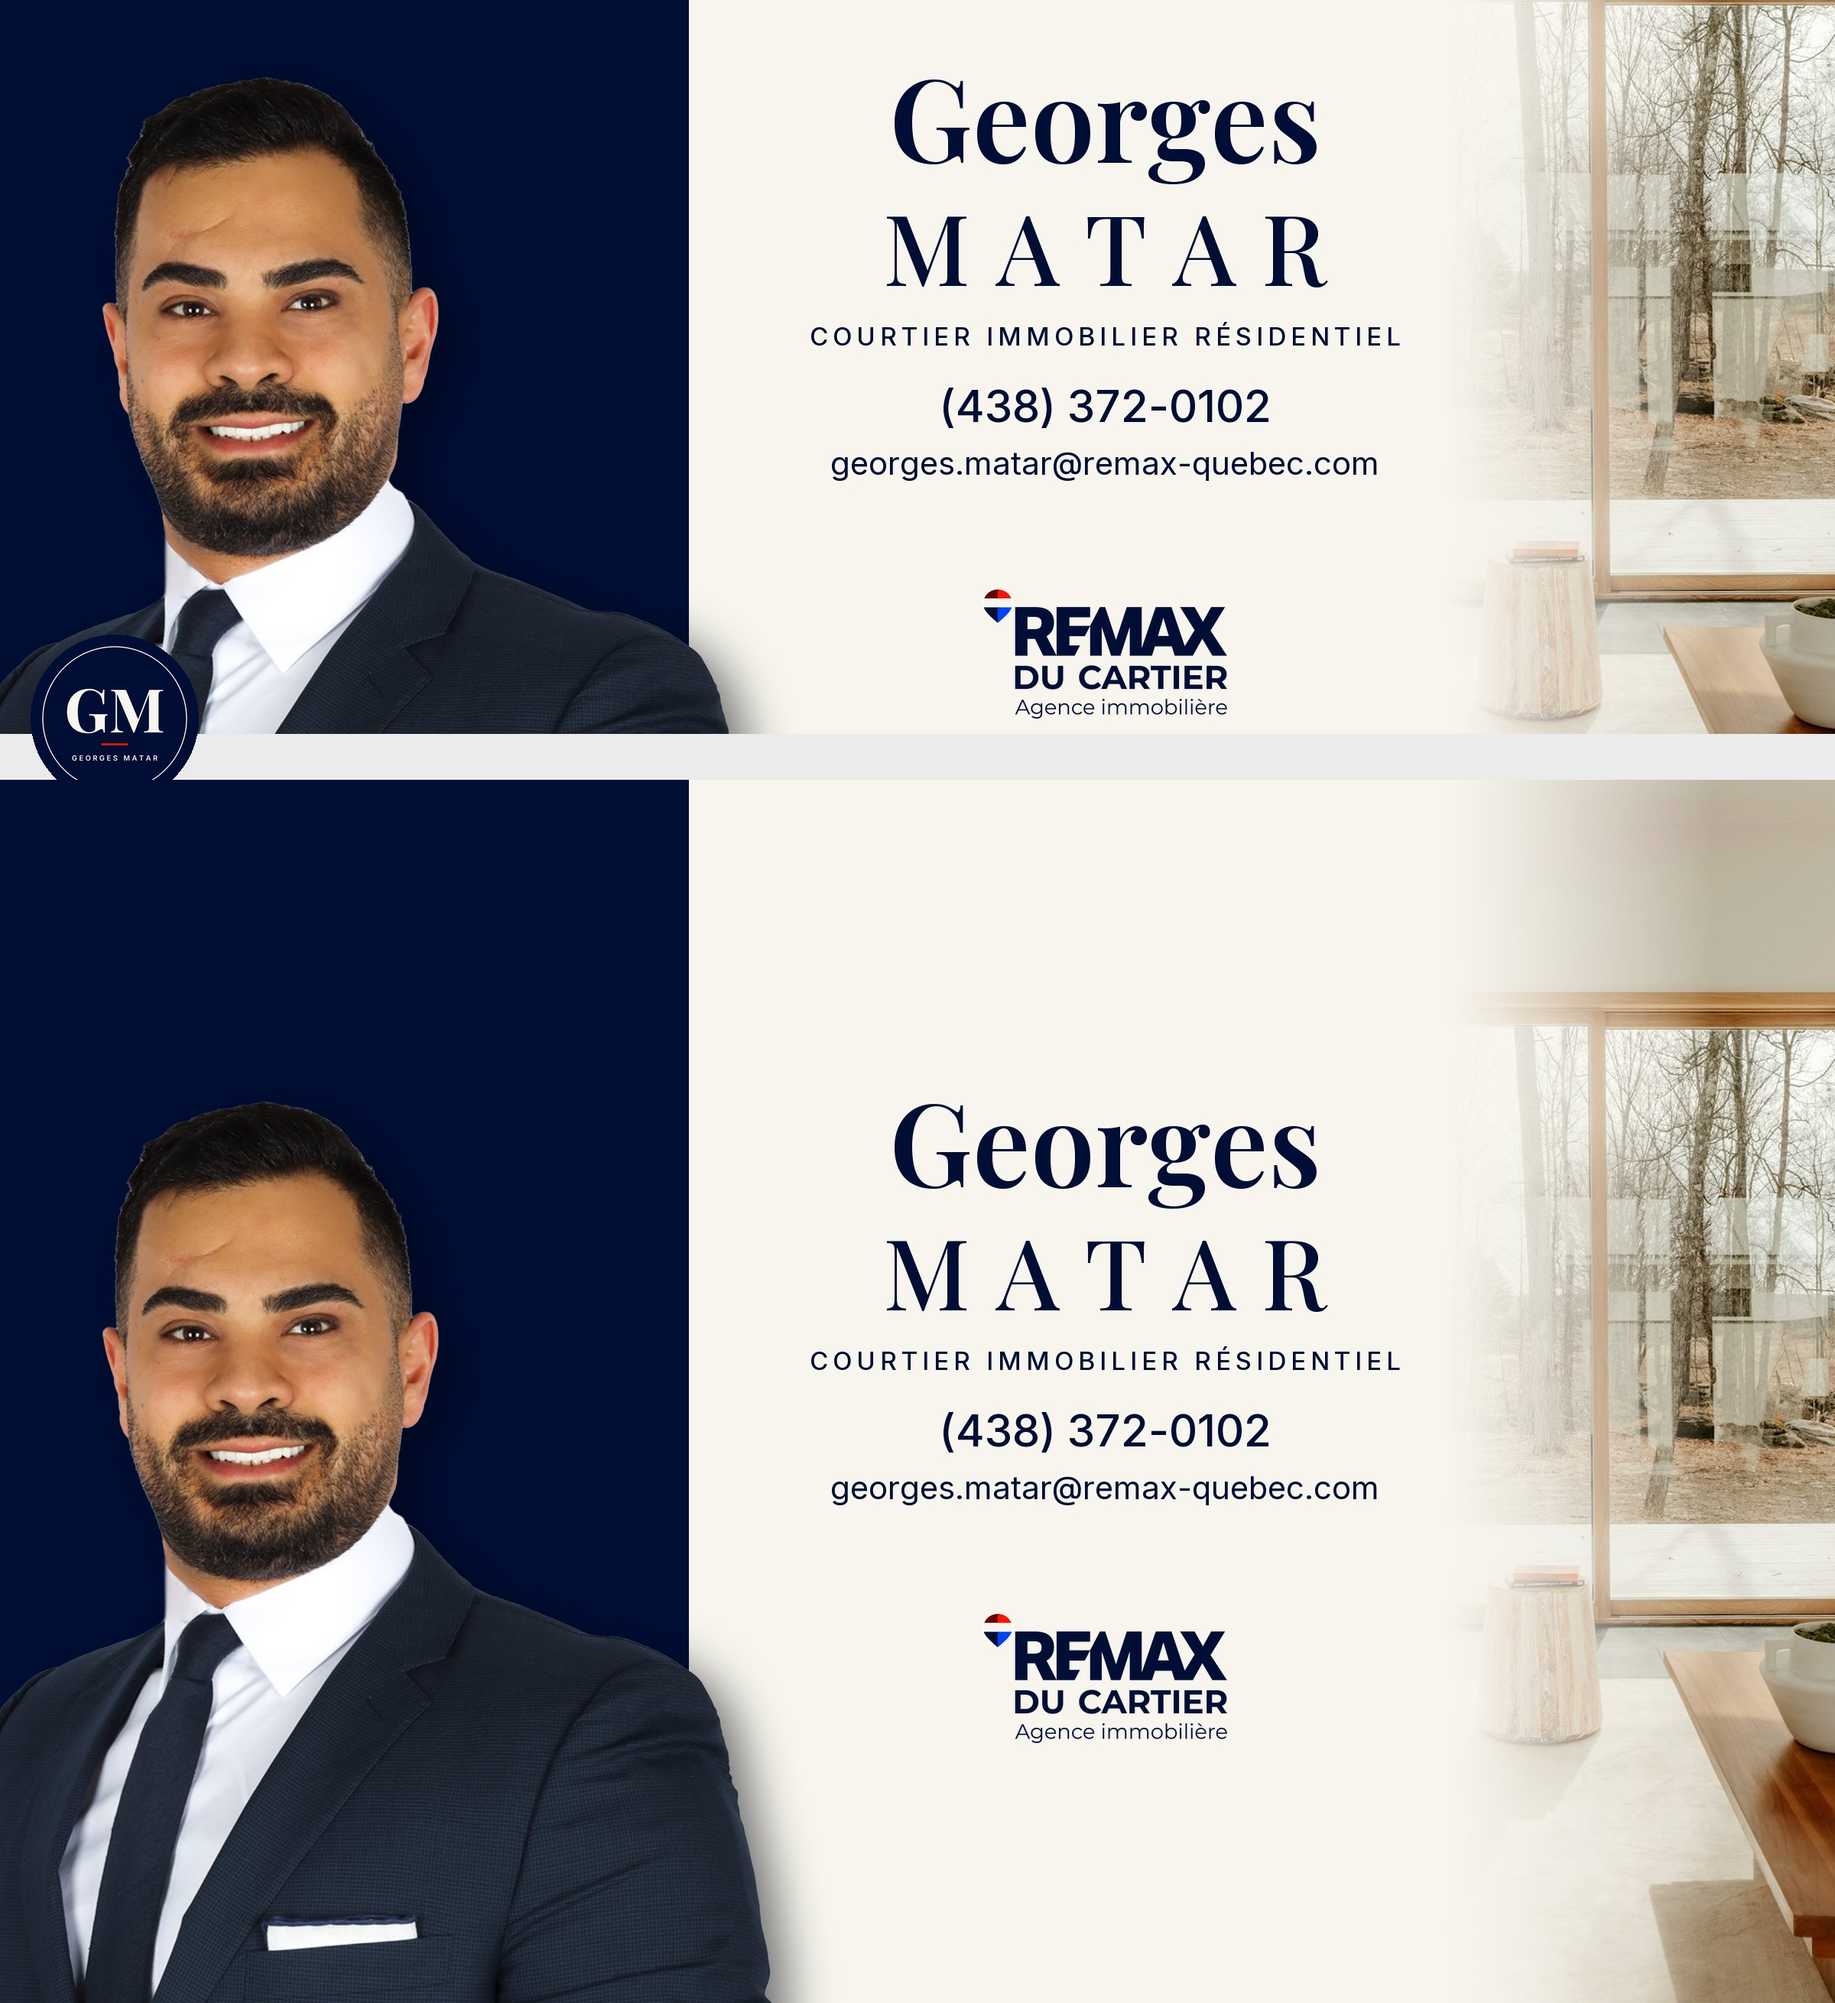
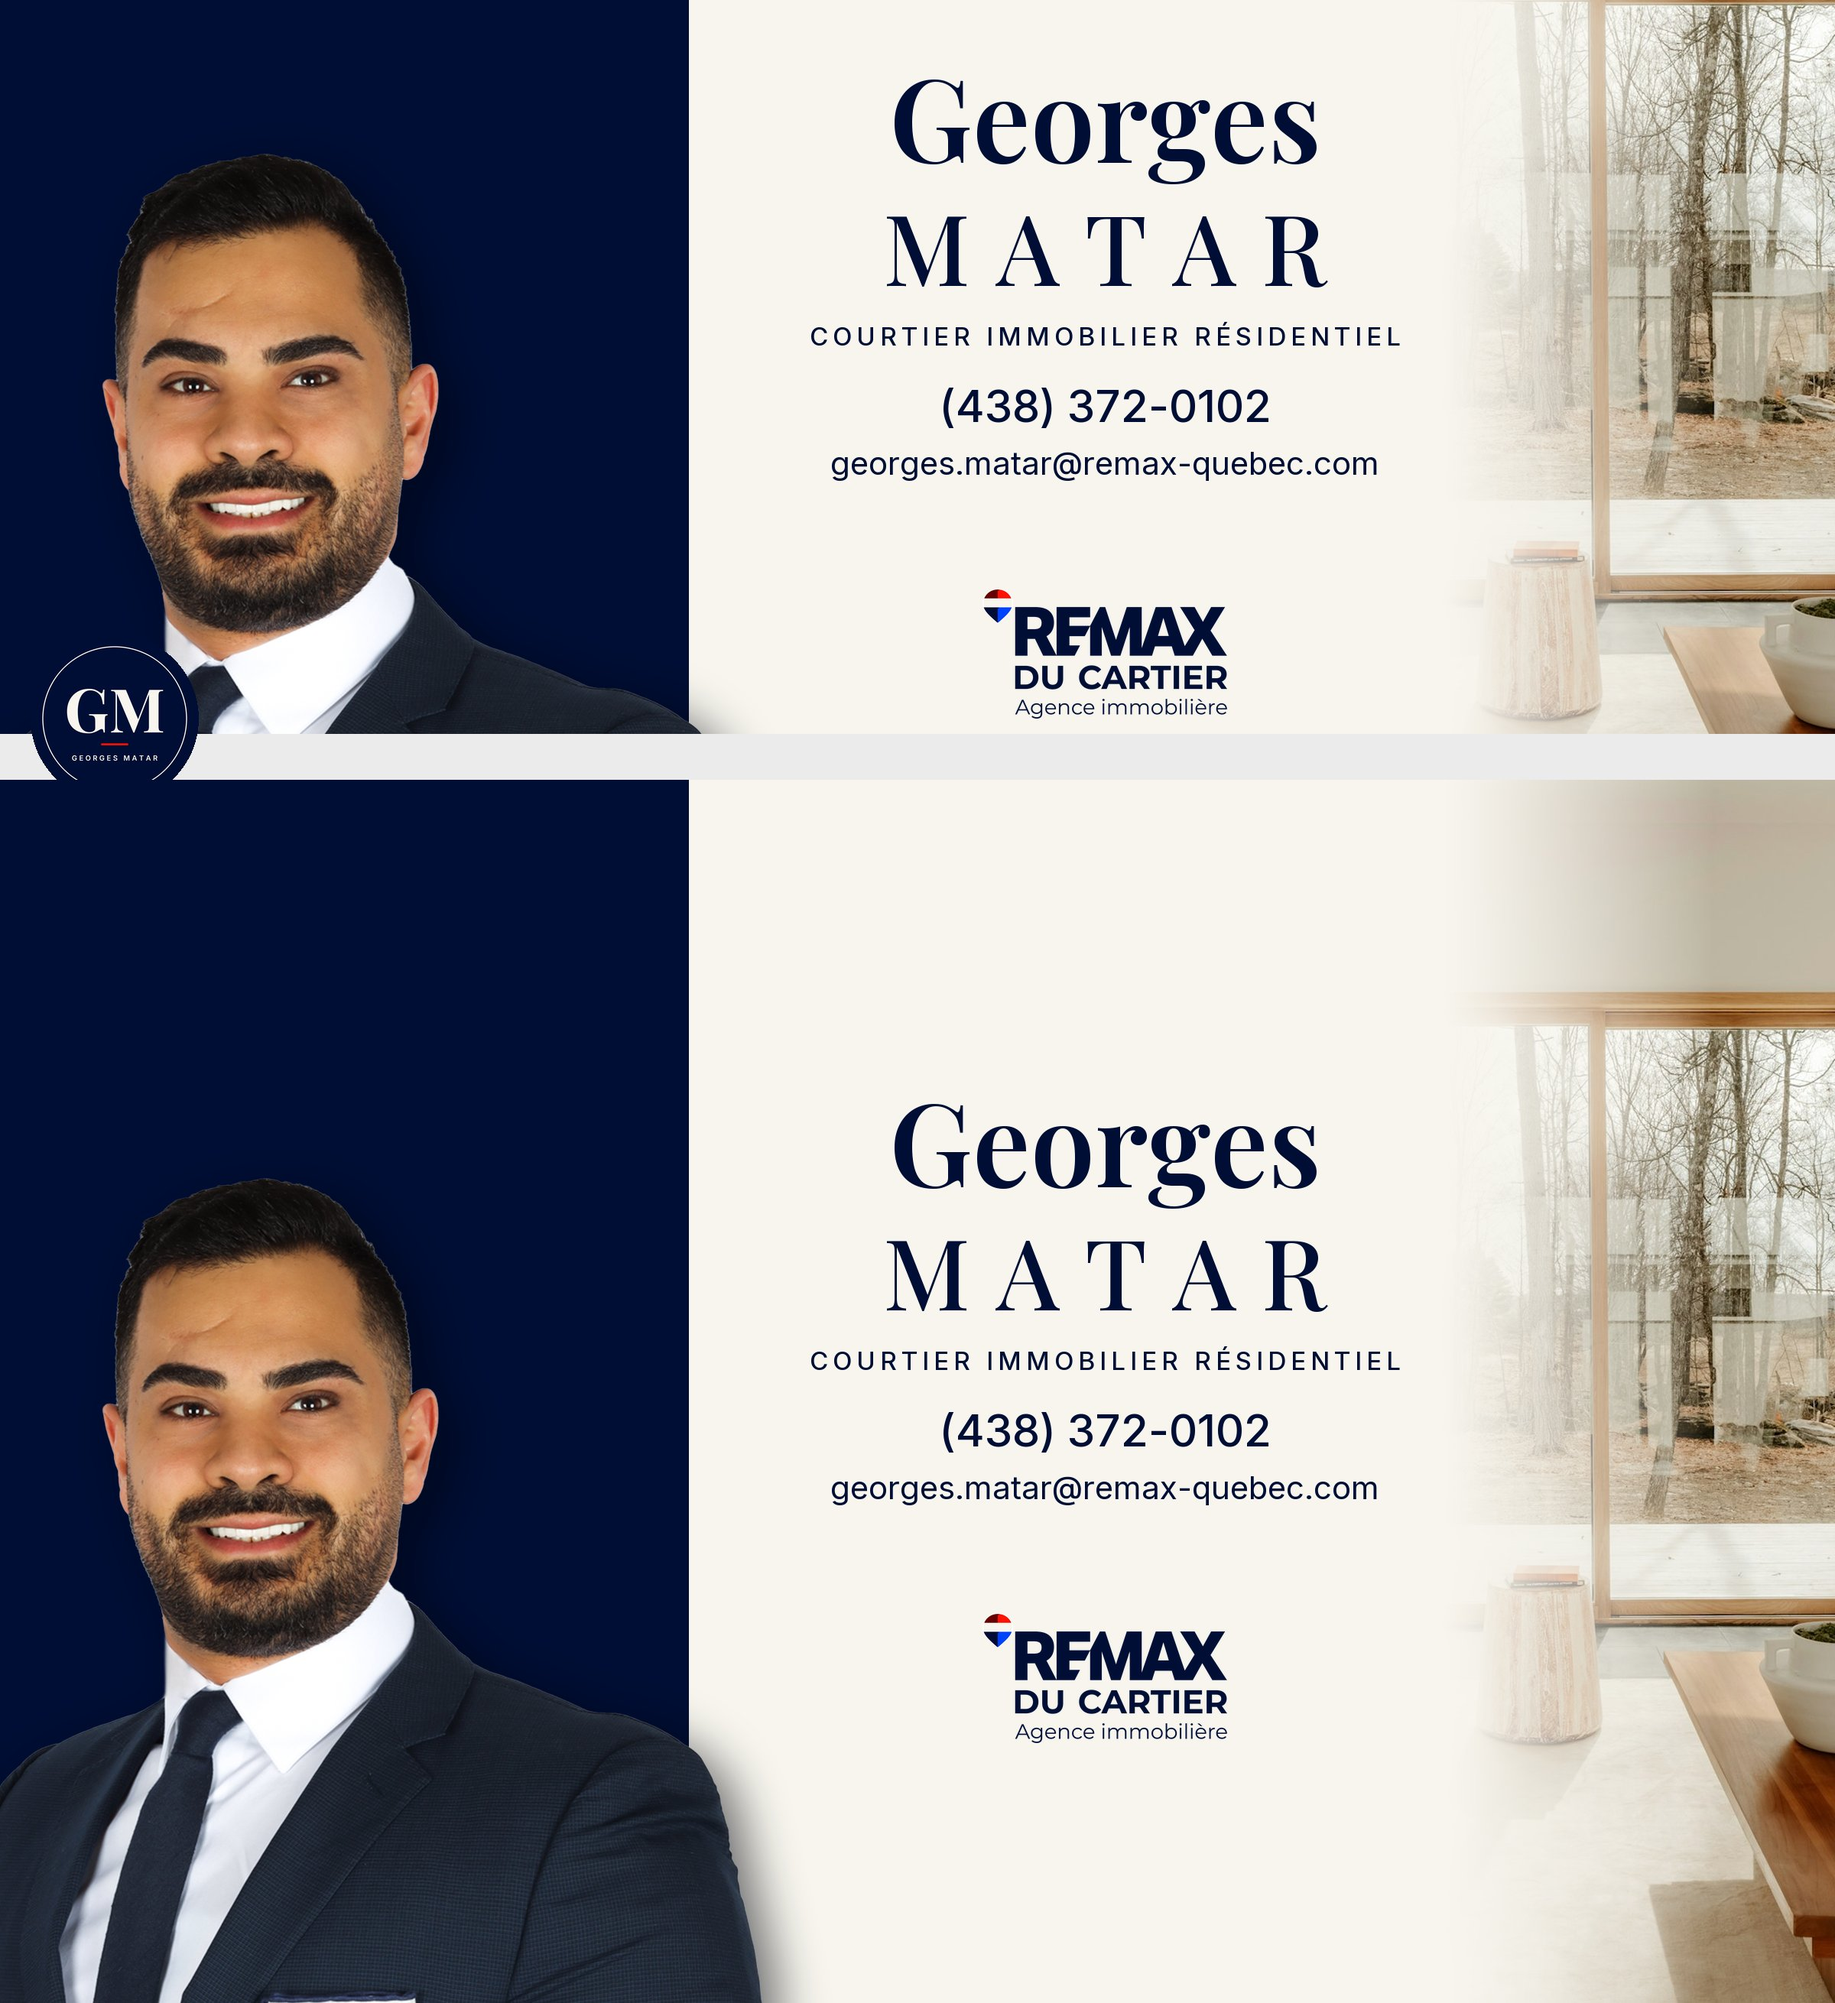
apple business: portrait descendu de 100 px dans la couverture banniere
Dans le recadrage d Apple, le haut de la tete touchait le bord. Meme
taille de visage, plus d air au-dessus.

Changed region(s): [[0.0, 0.5256, 0.4375, 1.0], [0.0, 0.0309, 0.4375, 0.371], [0.25, 0.9584, 0.2812, 1.0]]

diff --git a/apple business profile/generer.py b/apple business profile/generer.py
@@ -138,14 +138,18 @@ def banniere(chemin, W=2400, H=1600):
     p = Image.open(os.path.join(HERE, "draft", "Georges Matar sans mains_sans arriere plan.png")).convert("RGBA")
     p = p.crop(p.getchannel("A").getbbox())
     ph = H - 420
+    # Descendu de 100 px (demande de Georges, 2026-10-07): dans le recadrage
+    # d Apple, le haut de la tete touchait le bord. Le bas du complet sort du
+    # cadre, ce qui ne se voit pas.
+    py = H - ph + 100
     pw = round(p.width * ph / p.height)
     p = p.resize((pw, ph), Image.LANCZOS)
     x0 = px + 110 - pw  # le visage dans le panneau, l epaule droite deborde a peine
     ombre = Image.new("RGBA", (W, H), (0, 0, 0, 0))
-    ombre.paste((0, 4, 18, 150), (x0 + 22, H - ph + 18), p)
+    ombre.paste((0, 4, 18, 150), (x0 + 22, py + 18), p)
     from PIL import ImageFilter
     c.alpha_composite(ombre.filter(ImageFilter.GaussianBlur(30)))
-    c.alpha_composite(p, (x0, H - ph))
+    c.alpha_composite(p, (x0, py))
 
     d = ImageDraw.Draw(c)
     colonne = (px + 110 + (W - sw + 40)) / 2  # centre de la colonne creme
